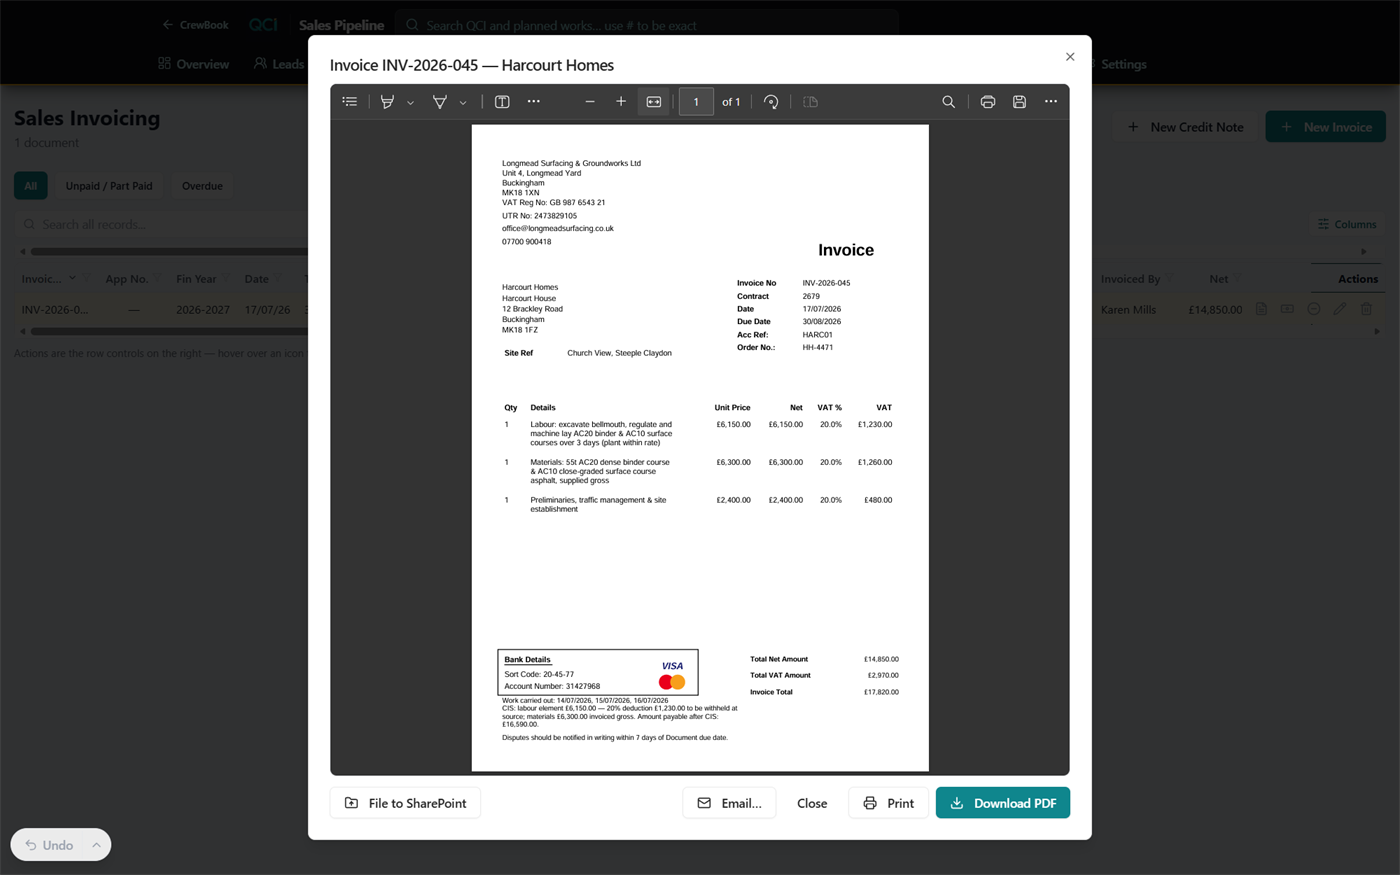
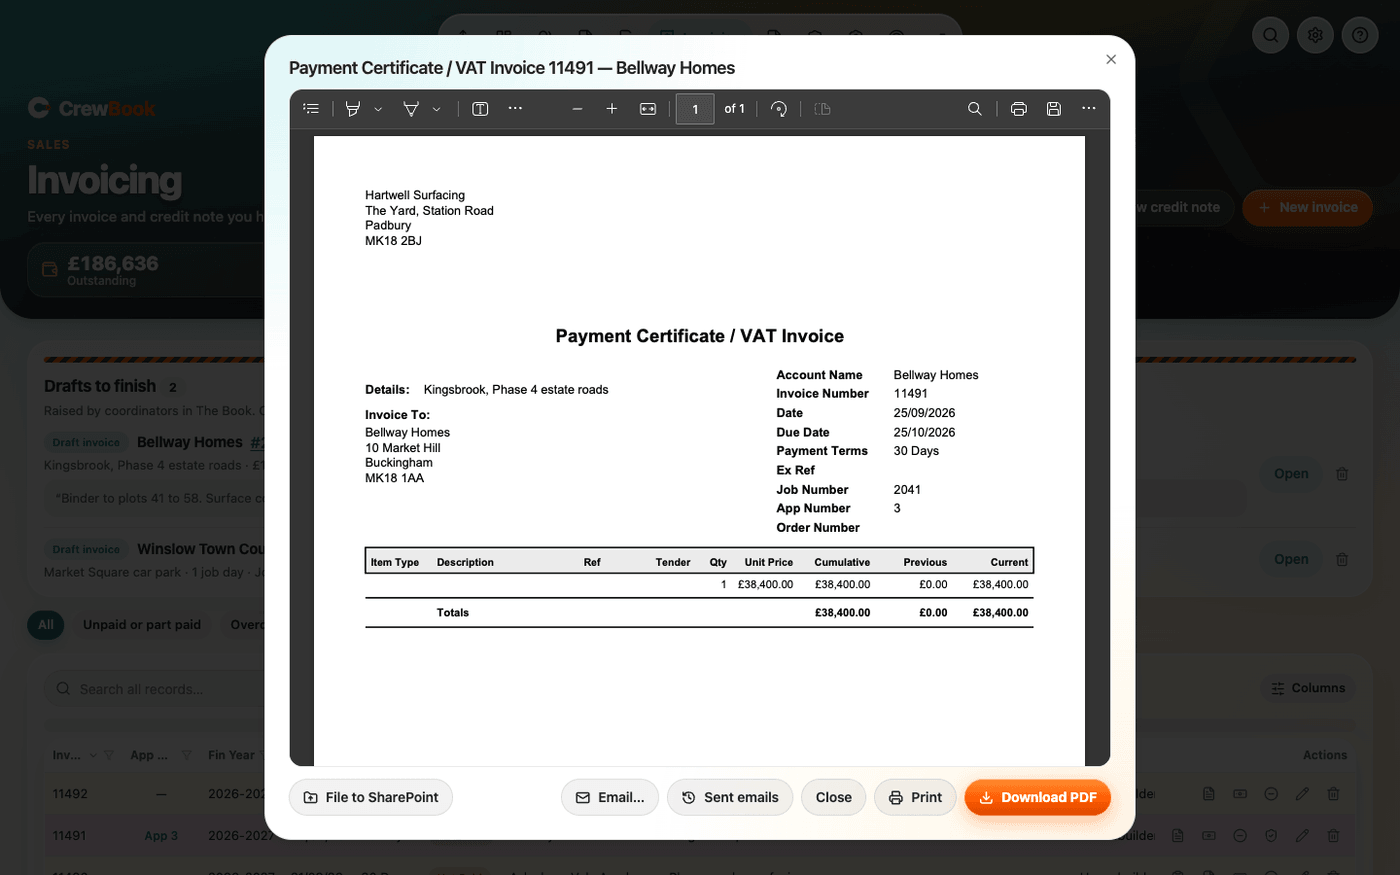
CrewBook: screenshots in the app's new look
CrewBook's website and Android app now have the look of the new iPhone
app. Every CrewBook picture on this site is retaken from the CrewBook
preview's pretend company (Hartwell Surfacing): the calendar, the job
card, costings, the invoice preview, the Sage export, the WhatsApp
sheet, the setup wizard, wages, expenses, mileage, holidays, and the
sales Overview, quotes and credit control. Captured at 1440 CSS px and
2x, then scaled to 1400 wide; most are now 1400 x 875 (sage and mileage
1400 x 972). Descriptions rewritten to say what is now in each picture.

Two new pictures for the guide: Today and the Invoices page's Purchase
invoices tab. A new social card (og-crewbook-v2.png, a new name so
social sites fetch it afresh) in the new look, at £55 a month; the old
card said £99.

For release when the new look is published on crewbook.me.

diff --git a/crewbook.html b/crewbook.html
@@ -13,10 +13,10 @@
   <meta property="og:title" content="CrewBook — job management for surfacing and groundworks contractors">
   <meta property="og:description" content="Scheduling, costing, invoicing, CIS-aware Sage 50 export and crew communications in one place. Try CrewBook free for 14 days, with no card needed, then £55 monthly per company.">
   <meta property="og:url" content="https://edwardsapps.co.uk/crewbook.html">
-  <meta property="og:image" content="https://edwardsapps.co.uk/img/og-crewbook.png">
+  <meta property="og:image" content="https://edwardsapps.co.uk/img/og-crewbook-v2.png">
   <meta property="og:image:width" content="1200">
   <meta property="og:image:height" content="630">
-  <meta property="og:image:alt" content="CrewBook's weekly job schedule and WhatsApp crew brief beside the headline: the job book a whole firm can run on.">
+  <meta property="og:image:alt" content="CrewBook's calendar and WhatsApp crew brief in the app's new look, beside the headline: the job book a whole firm can run on. 14-day free trial, then £55 a month.">
   <meta name="twitter:card" content="summary_large_image">
   <meta name="theme-color" content="#111813">
   <script type="application/ld+json">
@@ -88,7 +88,7 @@
           <div class="product-preview">
             <div class="product-preview-heading"><span class="product-preview-dot" aria-hidden="true"></span><span>Your working week, in one view</span><span aria-hidden="true">↗</span></div>
             <div class="product-screen-stage"><a class="hero-product-shot shot-link" href="img/shots/schedule.png">
-          <img src="img/shots/schedule.png" alt="CrewBook's weekly schedule showing jobs, crews and contract details from Monday to Friday" width="1400" height="508" fetchpriority="high">
+          <img src="img/shots/schedule.png" alt="CrewBook's calendar in the new look: a week of jobs, each with its client, site, contract number, status and crew" width="1400" height="875" fetchpriority="high">
         </a></div>
             <p class="product-preview-caption">The real CrewBook schedule. Select the screen to take a closer look.</p>
             <div class="product-workflow" aria-label="The CrewBook workflow"><span>Plan the work</span><span>Track the costs</span><span>Get paid</span></div>
@@ -122,7 +122,7 @@
           </div>
           <div class="product-tour-panel" id="crewbook-tour-panel">
             <div class="product-tour-window"><div class="product-tour-window-dots" aria-hidden="true"><i></i><i></i><i></i></div><span class="product-tour-window-label">Product view</span><span class="product-tour-counter" aria-hidden="true">01 / 05</span></div>
-            <div class="product-tour-stage"><a class="product-tour-image shot-link" href="img/shots/schedule.png"><img src="img/shots/schedule.png" alt="CrewBook&#x27;s week calendar: five jobs laid out Monday to Friday with crew counts, contract numbers and a provisional job awaiting confirmation" width="1400" height="508" loading="lazy"></a><span class="product-tour-enlarge" aria-hidden="true">↗ Select the screen to enlarge</span></div>
+            <div class="product-tour-stage"><a class="product-tour-image shot-link" href="img/shots/schedule.png"><img src="img/shots/schedule.png" alt="CrewBook&#x27;s calendar for the week, Monday to Sunday: each job a card with its client, site, contract number, category, status and crew, a cancelled job struck through, and today circled in orange" width="1400" height="875" loading="lazy"></a><span class="product-tour-enlarge" aria-hidden="true">↗ Select the screen to enlarge</span></div>
             <div class="product-tour-copy"><div><p class="product-tour-feature-label">CrewBook / The schedule</p><h3>Scheduling and job tracking</h3><p class="product-tour-description">Every job, every crew, every day in one view.</p></div><a class="product-tour-detail" href="#crewbook-explore-1">The full detail <span aria-hidden="true">↗</span></a></div>
           </div>
         </div>
@@ -173,77 +173,77 @@
               <h3>Scheduling and job tracking</h3>
               <p>Every job, every crew, every day in one view. Move a job and the rest of the picture moves with it, so nobody is working from last week's whiteboard.</p>
             </div>
-            <a class="shot-link" href="img/shots/schedule.png"><img class="feature-shot" src="img/shots/schedule.png" width="1400" height="508" loading="lazy" alt="CrewBook's week calendar: five jobs laid out Monday to Friday with crew counts, contract numbers and a provisional job awaiting confirmation"></a>
+            <a class="shot-link" href="img/shots/schedule.png"><img class="feature-shot" src="img/shots/schedule.png" width="1400" height="875" loading="lazy" alt="CrewBook's calendar for the week, Monday to Sunday: each job a card with its client, site, contract number, category, status and crew, a cancelled job struck through, and today circled in orange"></a>
           </li>
           <li data-spotlight>
             <div class="feature-text">
               <h3>The whole job on one card</h3>
               <p>Open any job and it is all there — client and contact, coordinator, crew, owned plant, booked materials with delivery times, hired plant with day rates, and the site notes the crew need. Nothing to chase round the office.</p>
             </div>
-            <a class="shot-link" href="img/shots/jobedit.png"><img class="feature-shot" src="img/shots/jobedit.png" width="1400" height="962" loading="lazy" alt="A CrewBook job card: client, site and contact details, four crew, six items of plant, booked materials with delivery times and prices, hired plant with day rates, and site notes"></a>
+            <a class="shot-link" href="img/shots/jobedit.png"><img class="feature-shot" src="img/shots/jobedit.png" width="1400" height="875" loading="lazy" alt="A CrewBook job open on its summary: client, site and address, status, credit and coordinator, the five crew, three items of plant and tools, and two material orders with their delivery times, one booked and one still to book"></a>
           </li>
           <li data-spotlight id="crewbook-explore-2" data-tour-title="Labour, materials and plant" data-tour-summary="Day rates, materials and plant go against the job as it happens, rather than from memory a fortnight later — so a job&#x27;s real cost is visible while there is still time to act on it.">
             <div class="feature-text">
               <h3>Labour, materials and plant</h3>
               <p>Day rates, materials and plant go against the job as it happens, rather than from memory a fortnight later — so a job's real cost is visible while there is still time to act on it.</p>
             </div>
-            <a class="shot-link" href="img/shots/costs.png"><img class="feature-shot" src="img/shots/costs.png" width="1400" height="875" loading="lazy" alt="A job's cost breakdown in CrewBook: materials, hired plant and labour lines with every crew day listed and a running total"></a>
+            <a class="shot-link" href="img/shots/costs.png"><img class="feature-shot" src="img/shots/costs.png" width="1400" height="875" loading="lazy" alt="A contract's cost breakdown in Costings: total costs against sales, profit and margin, then materials, hired plant, subcontractors, labour, own plant and small tools, with the part still accrued shown in amber"></a>
           </li>
           <li data-spotlight id="crewbook-explore-3" data-tour-title="Invoicing, including proforma" data-tour-summary="Invoices and proformas are built straight from the job, using the numbers captured on site rather than re-typed later — so the invoice matches the work.">
             <div class="feature-text">
               <h3>Invoicing, including proforma</h3>
               <p>Invoices and proformas are built straight from the job, using the numbers captured on site rather than re-typed later — so the invoice matches the work. Every document email is kept, so you can read exactly what a client received and send it again to a different address if the first one was wrong.</p>
             </div>
-            <a class="shot-link" href="img/shots/invoicing.png"><img class="feature-shot" src="img/shots/invoicing.png" width="1400" height="875" loading="lazy" alt="An invoice preview in CrewBook with labour and materials split out, the CIS deduction noted, and totals ready to send"></a>
+            <a class="shot-link" href="img/shots/invoicing.png"><img class="feature-shot" src="img/shots/invoicing.png" width="1400" height="875" loading="lazy" alt="A payment certificate and VAT invoice open in CrewBook's sales area, with its lines and totals, ready to download, print, email or file to SharePoint"></a>
           </li>
           <li data-spotlight>
             <div class="feature-text">
               <h3>CIS-aware Sage 50 export</h3>
               <p>CrewBook routes every invoice line the way CIS expects — labour netted for deduction and materials paid gross, gross-status lump sums left untouched, and non-CIS work left alone — then exports it clean to Sage 50, which takes the re-keying out of month end.</p>
             </div>
-            <a class="shot-link" href="img/shots/sage.png"><img class="feature-shot" src="img/shots/sage.png" width="1400" height="779" loading="lazy" alt="CrewBook's Sage 50 export screen: a fortnight of purchase invoices typed as materials, hired plant and subcontractor lines, ready to download as CSV"></a>
+            <a class="shot-link" href="img/shots/sage.png"><img class="feature-shot" src="img/shots/sage.png" width="1400" height="972" loading="lazy" alt="CrewBook's purchase-invoice export for September: six supplier invoices typed as material, hired plant, subcontractor, traffic management and haulage lines, ready to download as a CSV"></a>
           </li>
           <li data-spotlight id="crewbook-explore-4" data-tour-title="WhatsApp job notifications" data-tour-summary="Crews get the job where they already look: WhatsApp.">
             <div class="feature-text">
               <h3>WhatsApp job notifications</h3>
               <p>Crews get the job where they already look: WhatsApp. Where, when and what is needed, sent from the schedule rather than typed out each evening.</p>
             </div>
-            <a class="shot-link" href="img/shots/whatsapp.png"><img class="feature-shot" src="img/shots/whatsapp.png" width="1400" height="875" loading="lazy" alt="CrewBook's WhatsApp preview: the job brief message with client, address, map link and date, and the crew selected as recipients"></a>
+            <a class="shot-link" href="img/shots/whatsapp.png"><img class="feature-shot" src="img/shots/whatsapp.png" width="1400" height="875" loading="lazy" alt="CrewBook's WhatsApp sheet for a job: the brief each person will be sent, with the site address and notes, and the five crew it is going to"></a>
           </li>
           <li data-spotlight>
             <div class="feature-text">
               <h3>The emails that send themselves</h3>
               <p>Each coordinator gets tomorrow's operations brief by email every day — crew, materials, plant and credit status for their jobs. The weekly wage summary lands with the office on Mondays, and holiday approvals notify the right people. Set them up once and they carry on.</p>
             </div>
-            <a class="shot-link" href="img/shots/coordinator.png"><img class="feature-shot" src="img/shots/coordinator.png" width="1400" height="875" loading="lazy" alt="CrewBook's notifications setup: holiday approver, daily coordinator brief recipient and weekly wages recipients, each with their own email address"></a>
+            <a class="shot-link" href="img/shots/coordinator.png"><img class="feature-shot" src="img/shots/coordinator.png" width="1400" height="875" loading="lazy" alt="Step five of CrewBook's setup wizard, Notifications: the holiday approver, the daily holiday reminder, and the default coordinator email that gets a copy of every daily brief"></a>
           </li>
           <li data-spotlight id="crewbook-explore-5" data-tour-title="Wage sheets, straight from the schedule" data-tour-summary="The week&#x27;s shifts become the week&#x27;s wage sheet — split days, sick, yard and holiday all accounted for, basic and charge rates side by side, exported to Excel in one click.">
             <div class="feature-text">
               <h3>Wage sheets, straight from the schedule</h3>
               <p>The week's shifts become the week's wage sheet — split days, sick, yard and holiday all accounted for, basic and charge rates side by side, exported to Excel in one click. The same day statuses drive an Absence &amp; Cost report: how many times each person has been off, on what dates, and what it cost you, counted as occasions rather than days (Friday and Monday off is one spell of sickness, not two).</p>
             </div>
-            <a class="shot-link" href="img/shots/wages.png"><img class="feature-shot" src="img/shots/wages.png" width="1400" height="429" loading="lazy" alt="CrewBook's wage summary for a week: each worker's day-by-day shifts with contract numbers, split days, sick and holiday badges, shift totals and rates, with an Excel download button"></a>
+            <a class="shot-link" href="img/shots/wages.png"><img class="feature-shot" src="img/shots/wages.png" width="1400" height="875" loading="lazy" alt="CrewBook's wages for a week: each person's day-by-day shifts by contract number, split days and appointments, shift totals, and basic and charge rates, with a Download button"></a>
           </li>
           <li data-spotlight>
             <div class="feature-text">
               <h3>Expense claims with the receipt attached</h3>
               <p>Crews claim diesel, permits and PPE with the receipt attached and the job number against the line; the office approves, rejects or pays with the VAT already split out.</p>
             </div>
-            <a class="shot-link" href="img/shots/expenses.png"><img class="feature-shot" src="img/shots/expenses.png" width="1400" height="455" loading="lazy" alt="CrewBook's expenses list: four claims with claimant, description, job number, VAT split, and pending or approved status"></a>
+            <a class="shot-link" href="img/shots/expenses.png"><img class="feature-shot" src="img/shots/expenses.png" width="1400" height="875" loading="lazy" alt="CrewBook's Expenses: the amount waiting on the office, the claims to approve behind a hazard stripe, and every claim with its amount, VAT, category and status, and Approve, Reject and Pay buttons"></a>
           </li>
           <li data-spotlight>
             <div class="feature-text">
               <h3>Mileage, logged and claimed</h3>
               <p>Journeys are logged against the job, then turned into expense claims in one click — batch the week's trips or claim them one at a time.</p>
             </div>
-            <a class="shot-link" href="img/shots/mileage.png"><img class="feature-shot" src="img/shots/mileage.png" width="1400" height="604" loading="lazy" alt="CrewBook's mileage log: journeys from the depot to sites with miles, rate and value, a claim button per journey and a claim-all option"></a>
+            <a class="shot-link" href="img/shots/mileage.png"><img class="feature-shot" src="img/shots/mileage.png" width="1400" height="972" loading="lazy" alt="CrewBook's mileage for one person: 10,022 business miles this tax year against the 10,000-mile line, four journeys to claim, and one journey split between 55p and 25p a mile"></a>
           </li>
           <li data-spotlight>
             <div class="feature-text">
               <h3>Holidays in one tracker</h3>
               <p>Requests, approvals and allowances together — approved leave shows on the calendar, pending requests are flagged, and remaining days count themselves.</p>
             </div>
-            <a class="shot-link" href="img/shots/holidays.png"><img class="feature-shot" src="img/shots/holidays.png" width="1400" height="608" loading="lazy" alt="CrewBook's holiday tracker calendar for July: an approved holiday bar across three days, a pending request flagged with a question mark, and a legend of leave types"></a>
+            <a class="shot-link" href="img/shots/holidays.png"><img class="feature-shot" src="img/shots/holidays.png" width="1400" height="875" loading="lazy" alt="CrewBook's holidays for 2026: the crew's days left, two days waiting for an answer with Approve buttons, each person's days left, and a wall chart for September in each person's colour"></a>
           </li>
         </ul>
 
@@ -258,10 +258,10 @@
         <p class="measure">Because it lives inside CrewBook, nothing is re-typed. A won quote becomes a contract the schedule already knows about, invoices land against the same job the costs were captured on, and Costings shows sales against cost per contract without anyone reconciling spreadsheets.</p>
         <p class="measure"><strong>And it chases the money.</strong> Every open invoice ages from its due date and climbs a ladder you set — a reminder before it falls due, then chasers at 7, 21 and 45 days over, one email per client per run, under your company name. It knows when not to, as well: a client who has promised to pay by Friday is left alone until Friday, and so is one on hold, one under your threshold or one already chased this week. Statements of account go out monthly as a PDF, matured retention gets its own release request, and a client who clears their account gets a thank-you. Test mode redirects everything to your own address until you clear it, a dry run tells you what today would send without sending it, and every email is logged so a stage is not fired twice.</p>
         <div class="qci-shots">
-          <a class="shot-link" href="img/shots/qci-overview.png"><img class="feature-shot" src="img/shots/qci-overview.png" width="1400" height="420" loading="lazy" alt="QCI's overview: eight modules — leads, quotes, contracts, invoicing, proformas and applications, retentions, credit control and settings"></a>
-          <a class="shot-link" href="img/shots/qci-quotes.png"><img class="feature-shot" src="img/shots/qci-quotes.png" width="1400" height="407" loading="lazy" alt="QCI's quotes register: three quotes with values and statuses — quoted, emailed follow-up and won, the won quote linked to its contract number"></a>
+          <a class="shot-link" href="img/shots/qci-overview.png"><img class="feature-shot" src="img/shots/qci-overview.png" width="1400" height="875" loading="lazy" alt="The sales area's Overview: money outstanding and overdue, new leads and clients on file, and tiles for leads, quotes, contracts, prospecting, invoicing, proformas and applications, retentions, credit control, costings, insights, reports, clients and settings"></a>
+          <a class="shot-link" href="img/shots/qci-quotes.png"><img class="feature-shot" src="img/shots/qci-quotes.png" width="1400" height="875" loading="lazy" alt="The quotes register in CrewBook's sales area: open quotes and their value, quotes due a chaser, and each quote's number, date, client, site, sector, source and who quoted it"></a>
         </div>
-        <a class="shot-link" href="img/shots/crewbook-qci-chasing.webp"><img class="feature-shot" src="img/shots/crewbook-qci-chasing.webp" width="1400" height="860" loading="lazy" alt="QCI's chasing queue: an aged debt summary, then four clients due a chaser with their stage, days overdue and amount, one held back because they promised to pay"></a>
+        <a class="shot-link" href="img/shots/crewbook-qci-chasing.webp"><img class="feature-shot" src="img/shots/crewbook-qci-chasing.webp" width="1400" height="875" loading="lazy" alt="Credit control in CrewBook's sales area: the debt aged from not yet due to over 90 days, then the clients due a chaser with their stage, days overdue and amount, two ticked and ready to send"></a>
         <p class="measure">Only need the sales side? The same pipeline is available on its own as <a href="crewqci.html">CrewQCI</a> — £55 a month or £550 a year per company including VAT, without the scheduling, crews and job costing.</p>
       </div>
     </section>

diff --git a/index.html b/index.html
@@ -83,14 +83,14 @@
         <div class="app-stage" data-active-app="crewbook" aria-label="Explore the EdwardsApps products">
           <div class="app-stage-top"><span class="window-dots" aria-hidden="true"><i></i><i></i><i></i></span><span>THE APP WORKBENCH <i>Choose an app. Take a closer look.</i></span><span>01 / 05</span></div>
           <div class="app-switcher" aria-label="Choose an app preview">
-              <button type="button" role="tab" id="app-tab-crewbook" aria-controls="app-preview" aria-selected="true" tabindex="0" data-app="crewbook" data-title="CrewBook" data-caption="Contractor operations" data-image="img/shots/schedule.png" data-alt="CrewBook’s weekly job and crew schedule" data-width="1400" data-height="508"><img src="img/product-crewbook.png" alt="" width="48" height="48"><span><strong>CrewBook</strong><small>The whole job, connected</small></span><b aria-hidden="true">↗</b></button>
+              <button type="button" role="tab" id="app-tab-crewbook" aria-controls="app-preview" aria-selected="true" tabindex="0" data-app="crewbook" data-title="CrewBook" data-caption="Contractor operations" data-image="img/shots/schedule.png" data-alt="CrewBook’s weekly job and crew schedule" data-width="1400" data-height="875"><img src="img/product-crewbook.png" alt="" width="48" height="48"><span><strong>CrewBook</strong><small>The whole job, connected</small></span><b aria-hidden="true">↗</b></button>
               <button type="button" role="tab" id="app-tab-crewqci" aria-controls="app-preview" aria-selected="false" tabindex="-1" data-app="crewqci" data-title="CrewQCI" data-caption="From first enquiry to cleared payment" data-image="img/shots/crewqci-quotes.webp" data-alt="CrewQCI quotes register" data-width="1400" data-height="470"><img src="img/product-crewqci.png" alt="" width="48" height="48"><span><strong>CrewQCI</strong><small>From quote to paid</small></span><b aria-hidden="true">↗</b></button>
               <button type="button" role="tab" id="app-tab-studiobooks" aria-controls="app-preview" aria-selected="false" tabindex="-1" data-app="studiobooks" data-title="Studiobooks" data-caption="A studio’s business, in one place" data-image="img/shots/studiobooks-dashboard.webp" data-alt="Studiobooks studio dashboard" data-width="1400" data-height="1155"><img src="img/product-studiobooks.png" alt="" width="48" height="48"><span><strong>Studiobooks</strong><small>A calmer studio back office</small></span><b aria-hidden="true">↗</b></button>
               <button type="button" role="tab" id="app-tab-almoner" aria-controls="app-preview" aria-selected="false" tabindex="-1" data-app="almoner" data-title="Almoner" data-caption="Every pot and every claim, on the record" data-image="img/shots/almoner-dashboard.webp" data-alt="Almoner charity operations dashboard" data-width="1600" data-height="956"><img src="img/product-almoner.png" alt="" width="48" height="48"><span><strong>Almoner</strong><small>More clarity for good causes</small></span><b aria-hidden="true">↗</b></button>
               <button type="button" role="tab" id="app-tab-ourspace" aria-controls="app-preview" aria-selected="false" tabindex="-1" data-app="ourspace" data-title="OurSpace" data-caption="A little less to keep in your head" data-image="img/shots/ourspace-home.webp" data-alt="OurSpace shared household home screen" data-width="1080" data-height="2433"><img src="img/product-ourspace.png" alt="" width="48" height="48"><span><strong>OurSpace</strong><small>A little less to remember</small></span><b aria-hidden="true">↗</b></button>
           </div>
           <div id="app-preview">
-            <a class="app-preview-image shot-link" href="img/shots/schedule.png" aria-label="Enlarge CrewBook screenshot"><span class="preview-zoom" aria-hidden="true">↗ &nbsp; Enlarge screen</span><img src="img/shots/schedule.png" alt="CrewBook’s weekly job and crew schedule" width="1400" height="508" fetchpriority="high"></a>
+            <a class="app-preview-image shot-link" href="img/shots/schedule.png" aria-label="Enlarge CrewBook screenshot"><span class="preview-zoom" aria-hidden="true">↗ &nbsp; Enlarge screen</span><img src="img/shots/schedule.png" alt="CrewBook’s weekly job and crew schedule" width="1400" height="875" fetchpriority="high"></a>
             <div class="preview-workflow" aria-label="What you can do"><span>Schedule the week</span><span>Allocate the crew</span><span>See the job costs</span></div><div class="app-preview-caption"><div><strong>CrewBook</strong><span>Contractor operations</span></div><a class="app-explore" href="crewbook.html" aria-label="Explore CrewBook">Explore the app <b aria-hidden="true">↗</b></a></div>
           </div>
         </div>
@@ -153,7 +153,7 @@
             </div>
           </div>
           <a class="product-card-media shot-link" href="img/shots/schedule.png">
-            <img src="img/shots/schedule.png" alt="CrewBook showing a week of jobs and allocated crews" width="1400" height="508" loading="lazy">
+            <img src="img/shots/schedule.png" alt="CrewBook's calendar showing a week of jobs, each with its crew" width="1400" height="875" loading="lazy">
           </a>
         </article>
 
